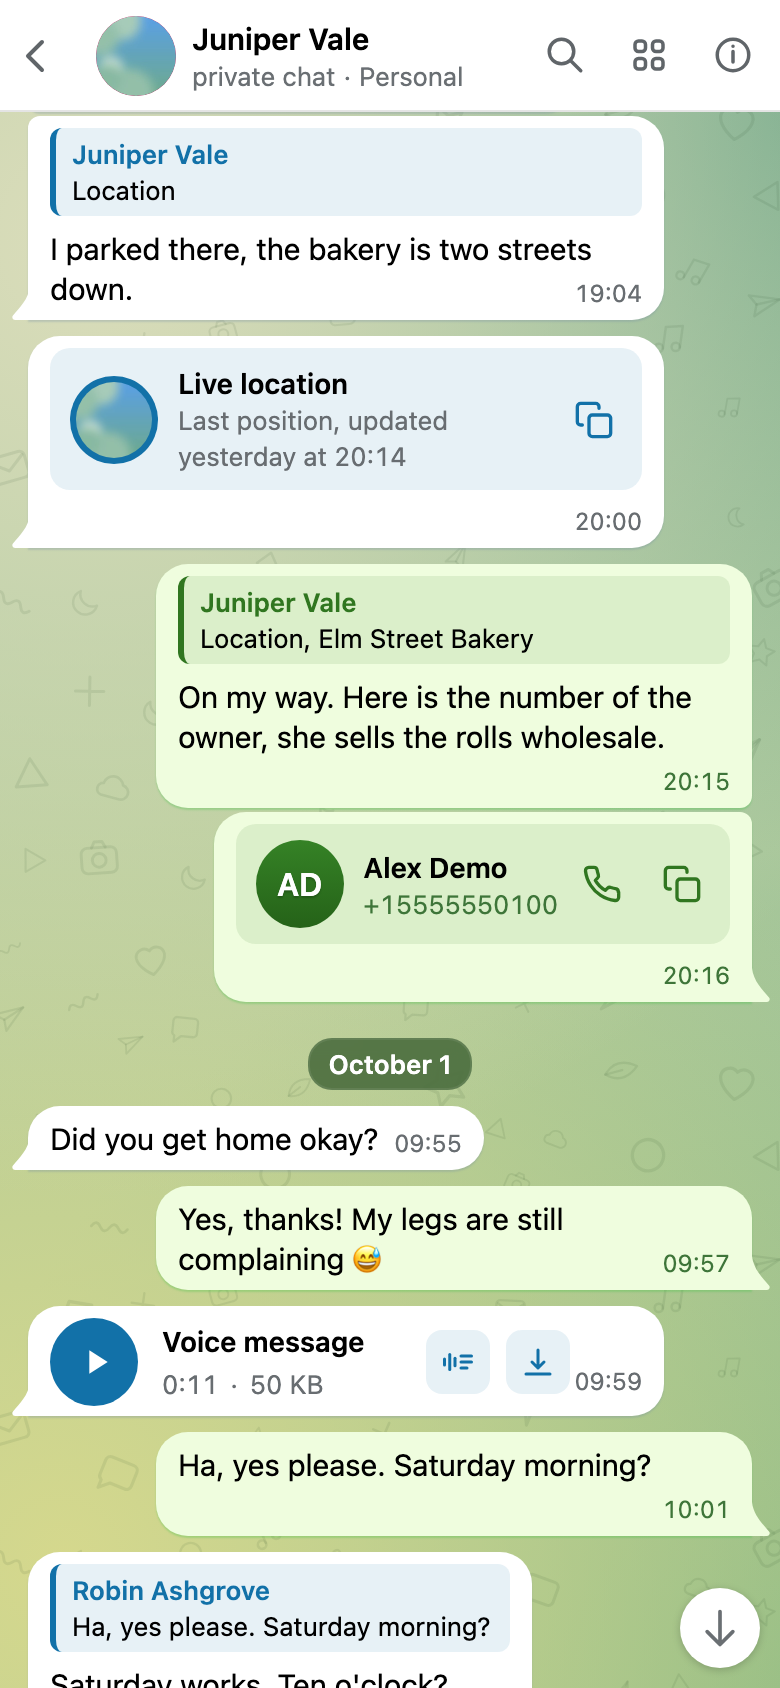
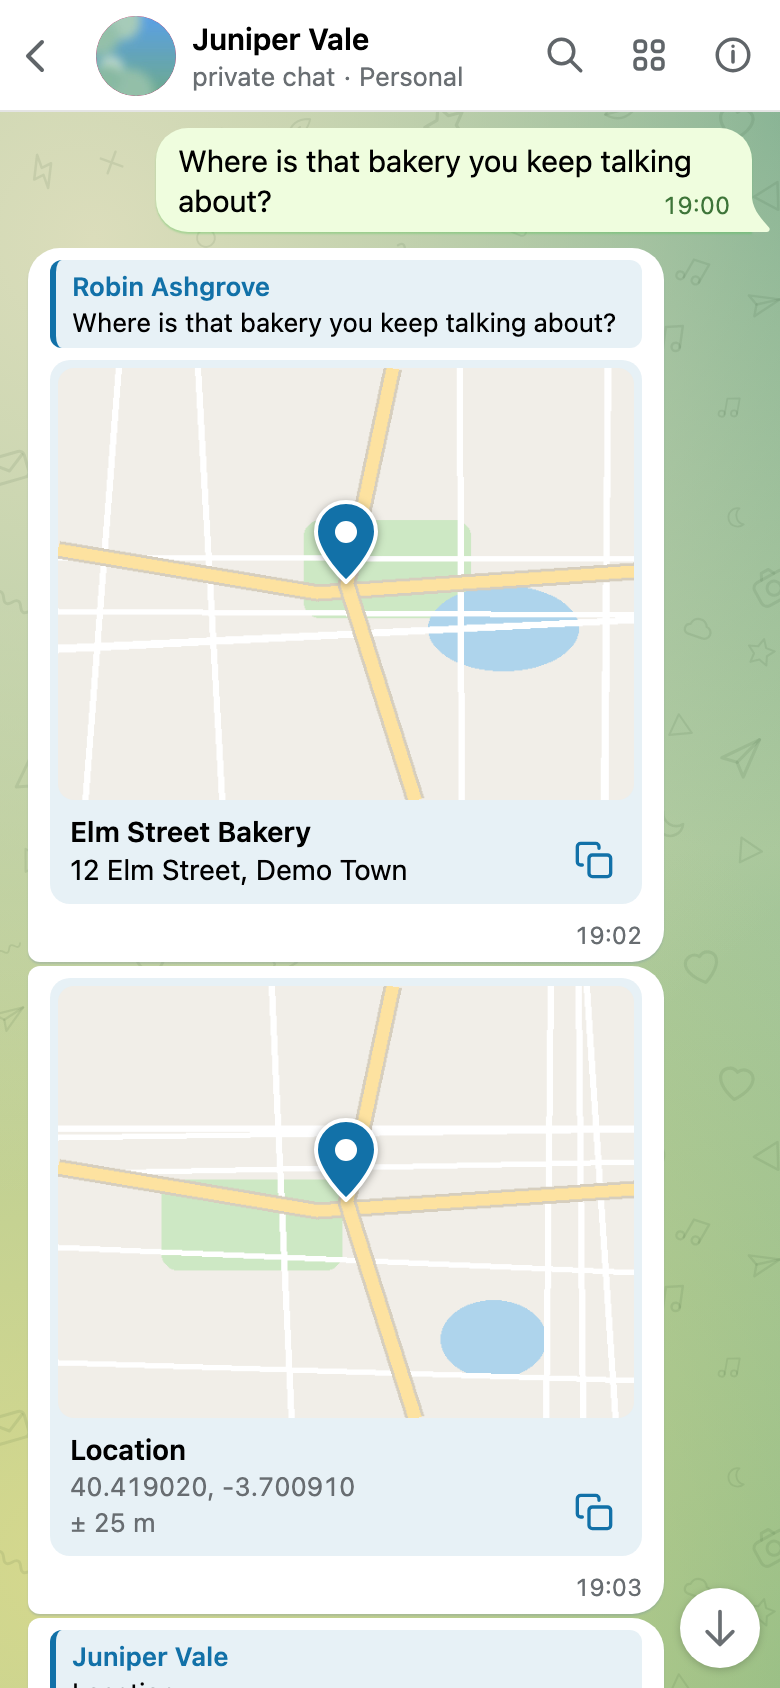
docs: retake the location card screenshots with their map pictures

diff --git a/docs/viewer/using-the-viewer.md b/docs/viewer/using-the-viewer.md
@@ -149,7 +149,7 @@ A login without downloads still sees the coordinates and phone numbers: they are
 
 === "Desktop"
 
-    ![A venue, a location, a live location that has ended and a shared contact in a private chat](../images/screenshots/location-cards.png)
+    ![A venue and a location in a private chat, each with its map picture on top](../images/screenshots/location-cards.png)
 
 === "Night"
 
@@ -157,7 +157,7 @@ A login without downloads still sees the coordinates and phone numbers: they are
 
 === "Phone"
 
-    ![A live location and a shared contact on a phone](../images/screenshots/location-cards-mobile.png){ width="300" }
+    ![The venue and the location with their map pictures on a phone](../images/screenshots/location-cards-mobile.png){ width="300" }
 
 When a file is not in the archive, a placeholder takes its place in the same shape: a photo or a video keeps its proportions, a round video its circle, and a voice message, an audio or a document its file row. A ring in the middle holds a sign for the reason, and two lines say what it is and why, with its size when the archive knows it, for example `24 MB · over the download limit`. The ring is not a button: nothing downloads from here. A file missing from the archive disk, the one fault among the reasons, shows an amber disc instead. [Why media is missing in the viewer](../configuration/media.md#why-media-is-missing-in-the-viewer) lists each reason and the setting behind it.
 
